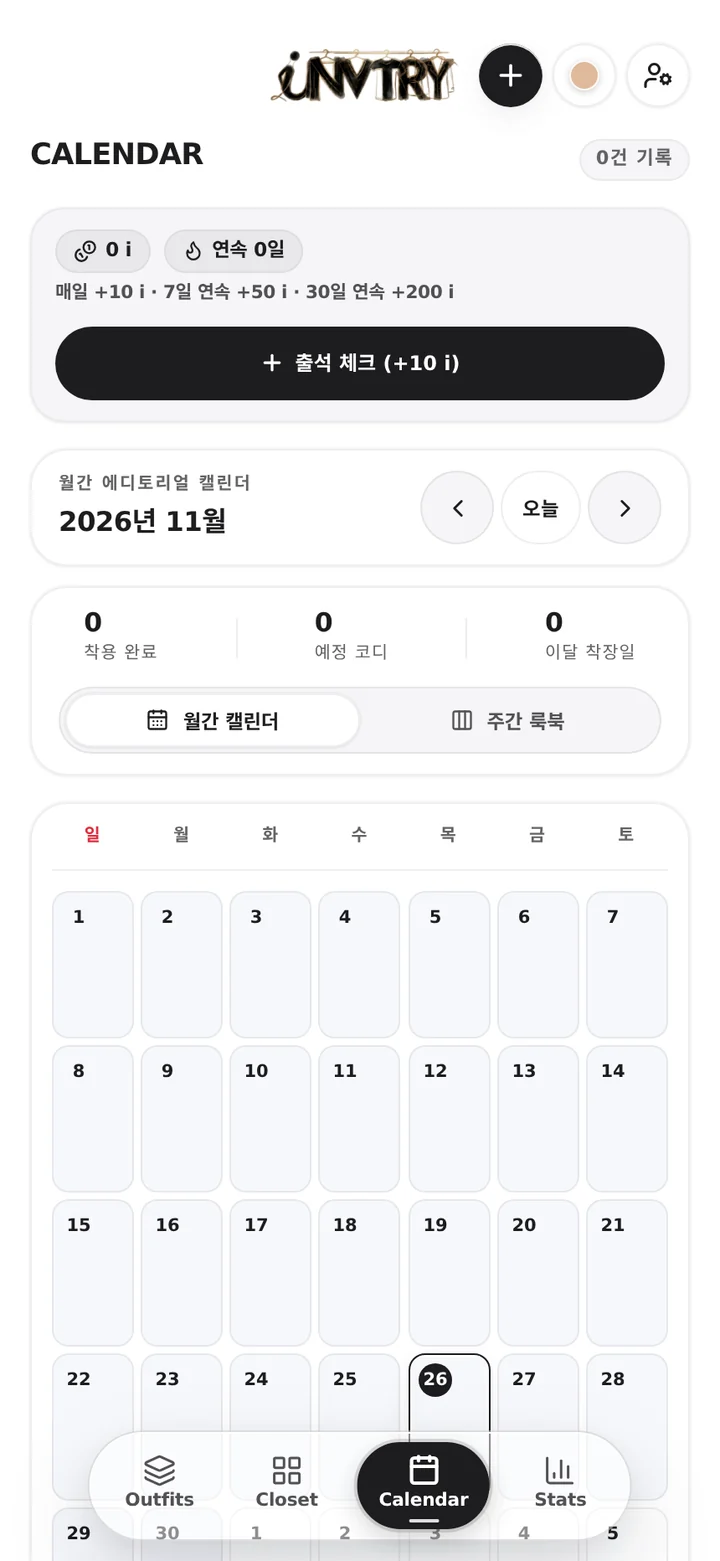
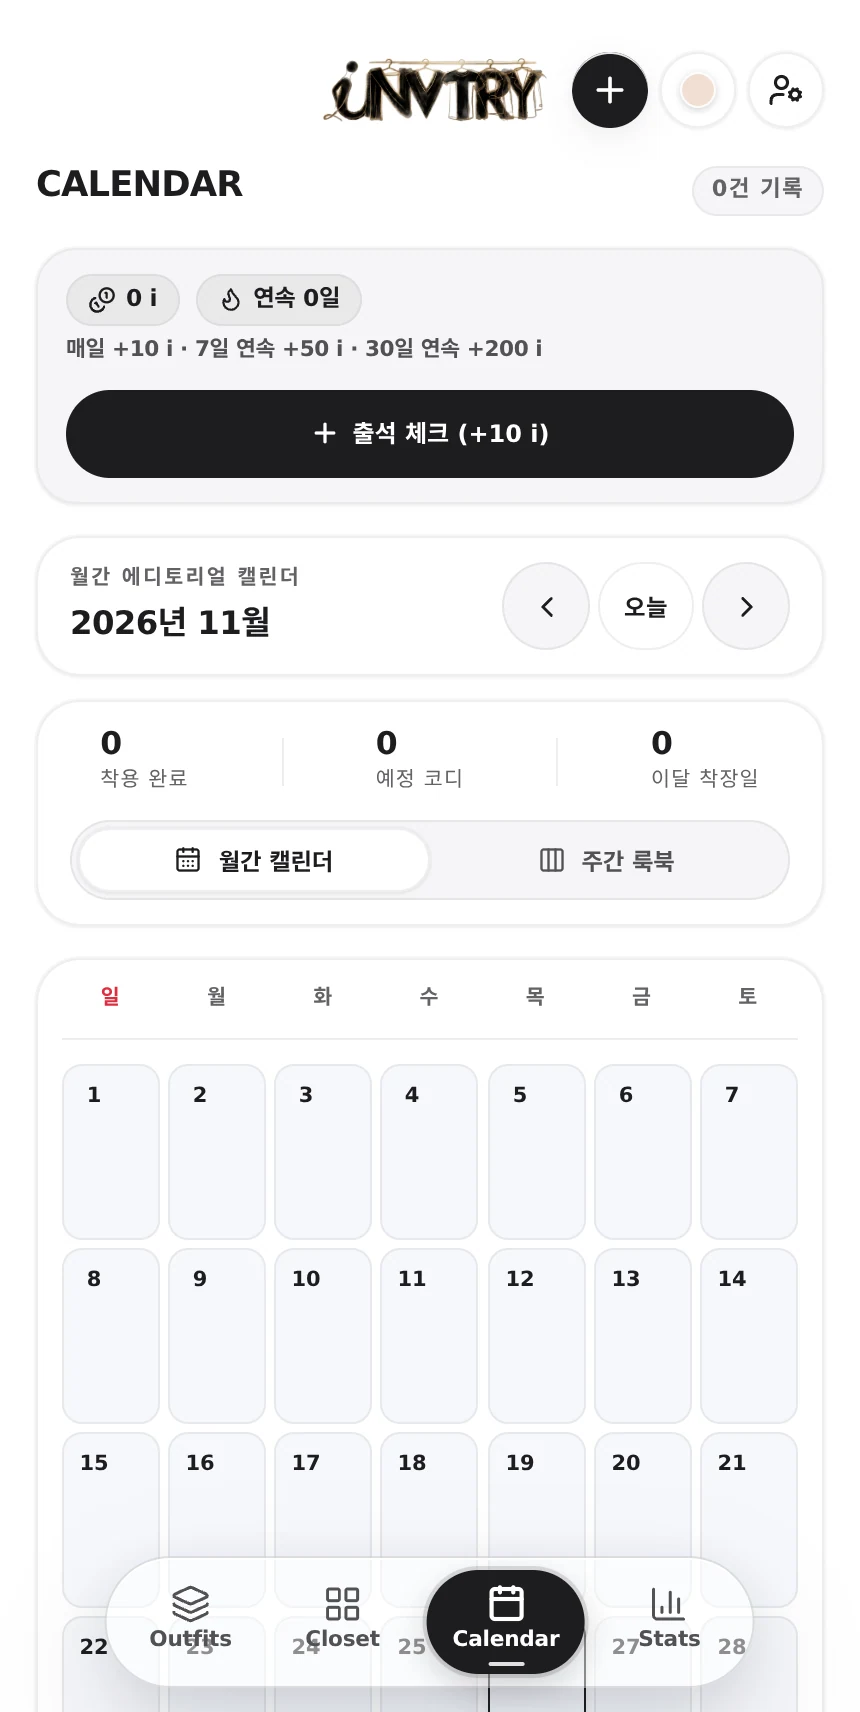
fix(previews,ir-deck): recapture all 24 live phone and studio demo screens cleanly

diff --git a/docs/ir-deck/ir-deck.css b/docs/ir-deck/ir-deck.css
@@ -49,6 +49,7 @@
 
   --device-bezel: #D9D3C7;
   --device-inner: #FAF8F4;
+  --device-screen-bg: #FFFFFF;
   --device-shadow: 0 22px 44px rgba(20, 20, 22, 0.14), 0 4px 12px rgba(20, 20, 22, 0.06);
   --card-shadow: 0 6px 24px rgba(20, 20, 22, 0.045);
 
@@ -92,6 +93,7 @@
 
   --device-bezel: #272930;
   --device-inner: #050507;
+  --device-screen-bg: #000000;
   --device-shadow: 0 28px 60px rgba(0, 0, 0, 0.72), 0 0 0 1px rgba(214, 184, 137, 0.14);
   --card-shadow: 0 10px 30px rgba(0, 0, 0, 0.32);
 
@@ -609,27 +611,32 @@ html, body {
   position: relative;
   flex: 1 1 auto;
   min-height: 0;
+  display: flex;
+  flex-direction: column;
+  padding-top: 15px;
   border-radius: 22px;
   overflow: hidden;
-  background: var(--device-inner);
+  background: var(--device-screen-bg, #000000);
   border: 1px solid var(--hairline);
 }
 
 .device-screen img {
   width: 100%;
+  flex: 1 1 auto;
+  min-height: 0;
   height: 100%;
-  object-fit: cover;
-  object-position: top center;
+  object-fit: contain;
+  object-position: center center;
   display: block;
 }
 
 .device-island {
   position: absolute;
-  top: 7px;
+  top: 4px;
   left: 50%;
   transform: translateX(-50%);
-  width: 52px;
-  height: 13px;
+  width: 44px;
+  height: 8px;
   border-radius: 999px;
   background: #000000;
   z-index: 3;
@@ -2588,6 +2595,13 @@ html, body {
 
 .s05-phone-hub .device-screen {
   border-radius: 17px;
+  padding-top: 11px;
+}
+
+.s05-phone-hub .device-island {
+  width: 30px;
+  height: 6px;
+  top: 2.5px;
 }
 
 .s05-garments-mini {
@@ -2666,22 +2680,27 @@ html, body {
 .s07-grid--5 {
   grid-template-columns: repeat(5, minmax(0, 1fr));
   gap: 13px;
+  align-items: center;
 }
 
 .s07-grid--5 .s07-phone {
-  max-width: 204px;
+  width: 100%;
+  max-width: 214px;
+  aspect-ratio: 444 / 906;
+  flex: none;
   border-radius: 26px;
   padding: 6px;
 }
 
 .s07-grid--5 .s07-phone .device-screen {
   border-radius: 20px;
+  padding-top: 13px;
 }
 
 .s07-grid--5 .s07-phone .device-island {
-  width: 50px;
-  height: 11px;
-  top: 5px;
+  width: 38px;
+  height: 7.5px;
+  top: 3px;
 }
 
 .s07-grid--5 .s07-cap-title {
@@ -3006,6 +3025,13 @@ html, body {
 
 .s18-floating-phone .device-screen {
   border-radius: 19px;
+  padding-top: 12px;
+}
+
+.s18-floating-phone .device-island {
+  width: 34px;
+  height: 6.5px;
+  top: 2.5px;
 }
 
 .s18-faq-strip {

diff --git a/site/public/ir/ir-deck.css b/site/public/ir/ir-deck.css
@@ -49,6 +49,7 @@
 
   --device-bezel: #D9D3C7;
   --device-inner: #FAF8F4;
+  --device-screen-bg: #FFFFFF;
   --device-shadow: 0 22px 44px rgba(20, 20, 22, 0.14), 0 4px 12px rgba(20, 20, 22, 0.06);
   --card-shadow: 0 6px 24px rgba(20, 20, 22, 0.045);
 
@@ -92,6 +93,7 @@
 
   --device-bezel: #272930;
   --device-inner: #050507;
+  --device-screen-bg: #000000;
   --device-shadow: 0 28px 60px rgba(0, 0, 0, 0.72), 0 0 0 1px rgba(214, 184, 137, 0.14);
   --card-shadow: 0 10px 30px rgba(0, 0, 0, 0.32);
 
@@ -609,27 +611,32 @@ html, body {
   position: relative;
   flex: 1 1 auto;
   min-height: 0;
+  display: flex;
+  flex-direction: column;
+  padding-top: 15px;
   border-radius: 22px;
   overflow: hidden;
-  background: var(--device-inner);
+  background: var(--device-screen-bg, #000000);
   border: 1px solid var(--hairline);
 }
 
 .device-screen img {
   width: 100%;
+  flex: 1 1 auto;
+  min-height: 0;
   height: 100%;
-  object-fit: cover;
-  object-position: top center;
+  object-fit: contain;
+  object-position: center center;
   display: block;
 }
 
 .device-island {
   position: absolute;
-  top: 7px;
+  top: 4px;
   left: 50%;
   transform: translateX(-50%);
-  width: 52px;
-  height: 13px;
+  width: 44px;
+  height: 8px;
   border-radius: 999px;
   background: #000000;
   z-index: 3;
@@ -2588,6 +2595,13 @@ html, body {
 
 .s05-phone-hub .device-screen {
   border-radius: 17px;
+  padding-top: 11px;
+}
+
+.s05-phone-hub .device-island {
+  width: 30px;
+  height: 6px;
+  top: 2.5px;
 }
 
 .s05-garments-mini {
@@ -2666,22 +2680,27 @@ html, body {
 .s07-grid--5 {
   grid-template-columns: repeat(5, minmax(0, 1fr));
   gap: 13px;
+  align-items: center;
 }
 
 .s07-grid--5 .s07-phone {
-  max-width: 204px;
+  width: 100%;
+  max-width: 214px;
+  aspect-ratio: 444 / 906;
+  flex: none;
   border-radius: 26px;
   padding: 6px;
 }
 
 .s07-grid--5 .s07-phone .device-screen {
   border-radius: 20px;
+  padding-top: 13px;
 }
 
 .s07-grid--5 .s07-phone .device-island {
-  width: 50px;
-  height: 11px;
-  top: 5px;
+  width: 38px;
+  height: 7.5px;
+  top: 3px;
 }
 
 .s07-grid--5 .s07-cap-title {
@@ -3006,6 +3025,13 @@ html, body {
 
 .s18-floating-phone .device-screen {
   border-radius: 19px;
+  padding-top: 12px;
+}
+
+.s18-floating-phone .device-island {
+  width: 34px;
+  height: 6.5px;
+  top: 2.5px;
 }
 
 .s18-faq-strip {

diff --git a/docs/ir-deck/ir-deck-i18n.js b/docs/ir-deck/ir-deck-i18n.js
@@ -397,7 +397,7 @@
     '8-Cut 4겹+': '8-Cut 4+ Layers',
     '8방향 VTON · 서울 명동 날씨': '8-Angle VTON · Seoul Weather',
     'AI 3중 원가 방어 메커니즘 (BEFORE vs iNVTRY)': '3-LAYER AI COST DEFENSE (BEFORE vs iNVTRY)',
-    'ARKET·LEMAIRE · 3초 대조': 'ARKET·LEMAIRE · 3-Sec Match',
+    'RICK OWENS·PRADA · 3초 대조': 'RICK OWENS·PRADA · 3-Sec Match',
     'CUT 01–02 · 옷장': 'CUT 01–02 · Closet',
     'CUT 03 · 8방향 피팅': 'CUT 03 · 8-Angle Fit',
     'CUT 04 · 캘린더': 'CUT 04 · Calendar',

diff --git a/site/public/ir/ir-deck-i18n.js b/site/public/ir/ir-deck-i18n.js
@@ -397,7 +397,7 @@
     '8-Cut 4겹+': '8-Cut 4+ Layers',
     '8방향 VTON · 서울 명동 날씨': '8-Angle VTON · Seoul Weather',
     'AI 3중 원가 방어 메커니즘 (BEFORE vs iNVTRY)': '3-LAYER AI COST DEFENSE (BEFORE vs iNVTRY)',
-    'ARKET·LEMAIRE · 3초 대조': 'ARKET·LEMAIRE · 3-Sec Match',
+    'RICK OWENS·PRADA · 3초 대조': 'RICK OWENS·PRADA · 3-Sec Match',
     'CUT 01–02 · 옷장': 'CUT 01–02 · Closet',
     'CUT 03 · 8방향 피팅': 'CUT 03 · 8-Angle Fit',
     'CUT 04 · 캘린더': 'CUT 04 · Calendar',

diff --git a/docs/ir-deck/index.html b/docs/ir-deck/index.html
@@ -1103,7 +1103,7 @@
                     <span class="s07-cap-title"><span class="mono gold-accent">02</span> 270벌 옷장</span>
                     <span class="badge badge--live">11슬롯</span>
                   </div>
-                  <span class="s07-cap-sub">ARKET·LEMAIRE · 3초 대조</span>
+                  <span class="s07-cap-sub">RICK OWENS·PRADA · 3초 대조</span>
                 </div>
               </div>
 

diff --git a/site/public/ir/index.html b/site/public/ir/index.html
@@ -1103,7 +1103,7 @@
                     <span class="s07-cap-title"><span class="mono gold-accent">02</span> 270벌 옷장</span>
                     <span class="badge badge--live">11슬롯</span>
                   </div>
-                  <span class="s07-cap-sub">ARKET·LEMAIRE · 3초 대조</span>
+                  <span class="s07-cap-sub">RICK OWENS·PRADA · 3초 대조</span>
                 </div>
               </div>
 
